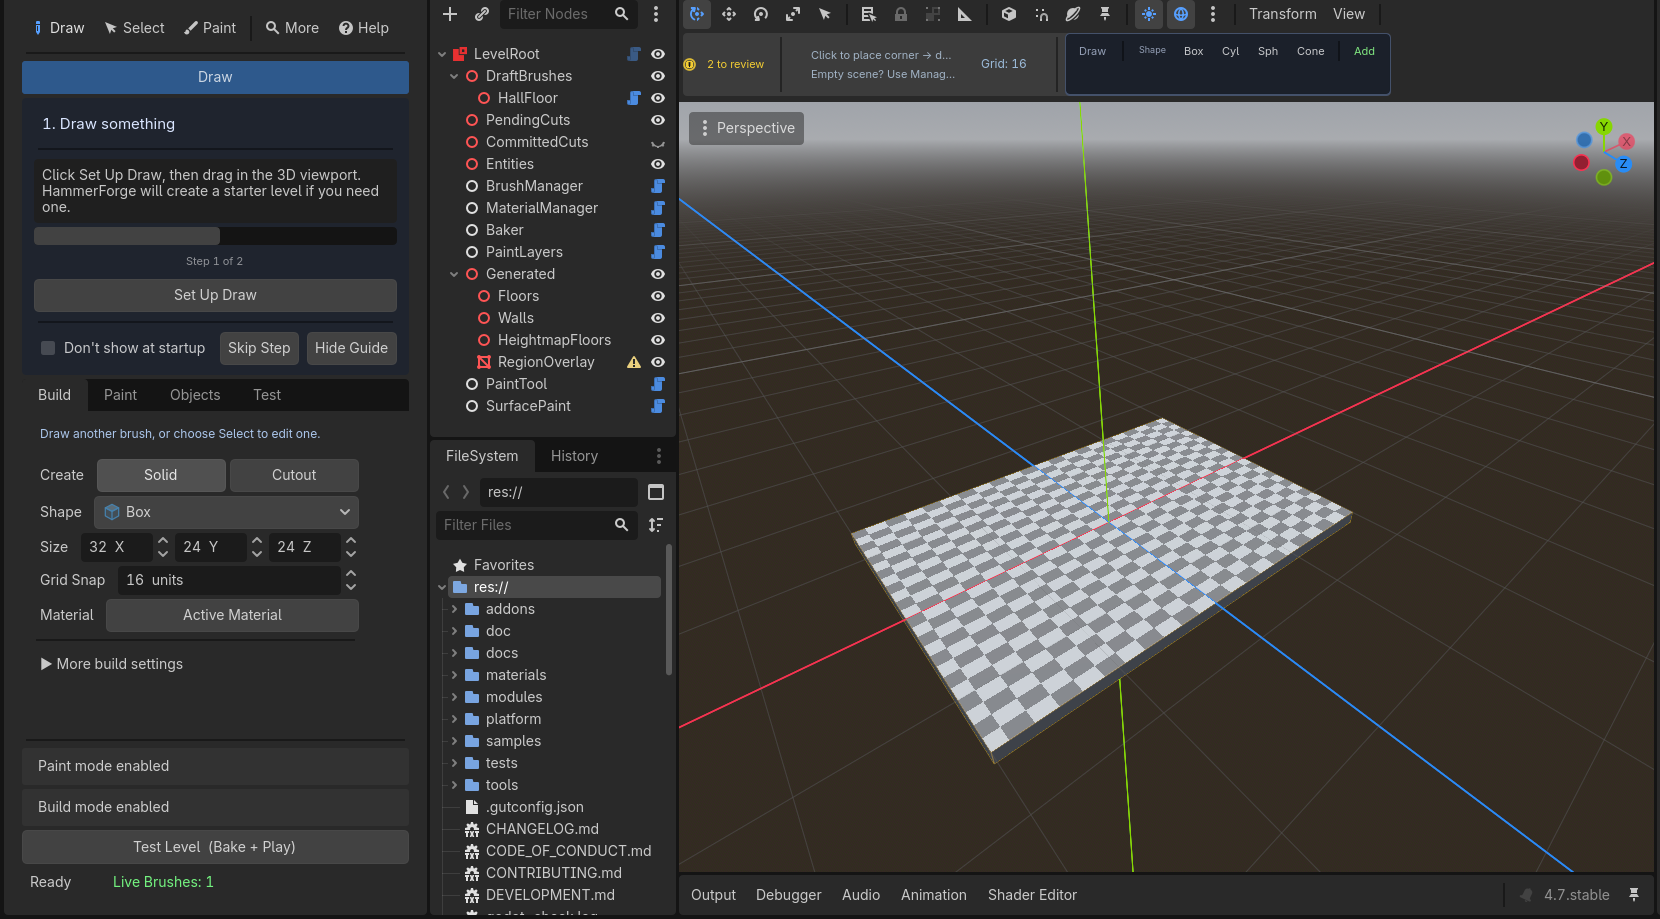
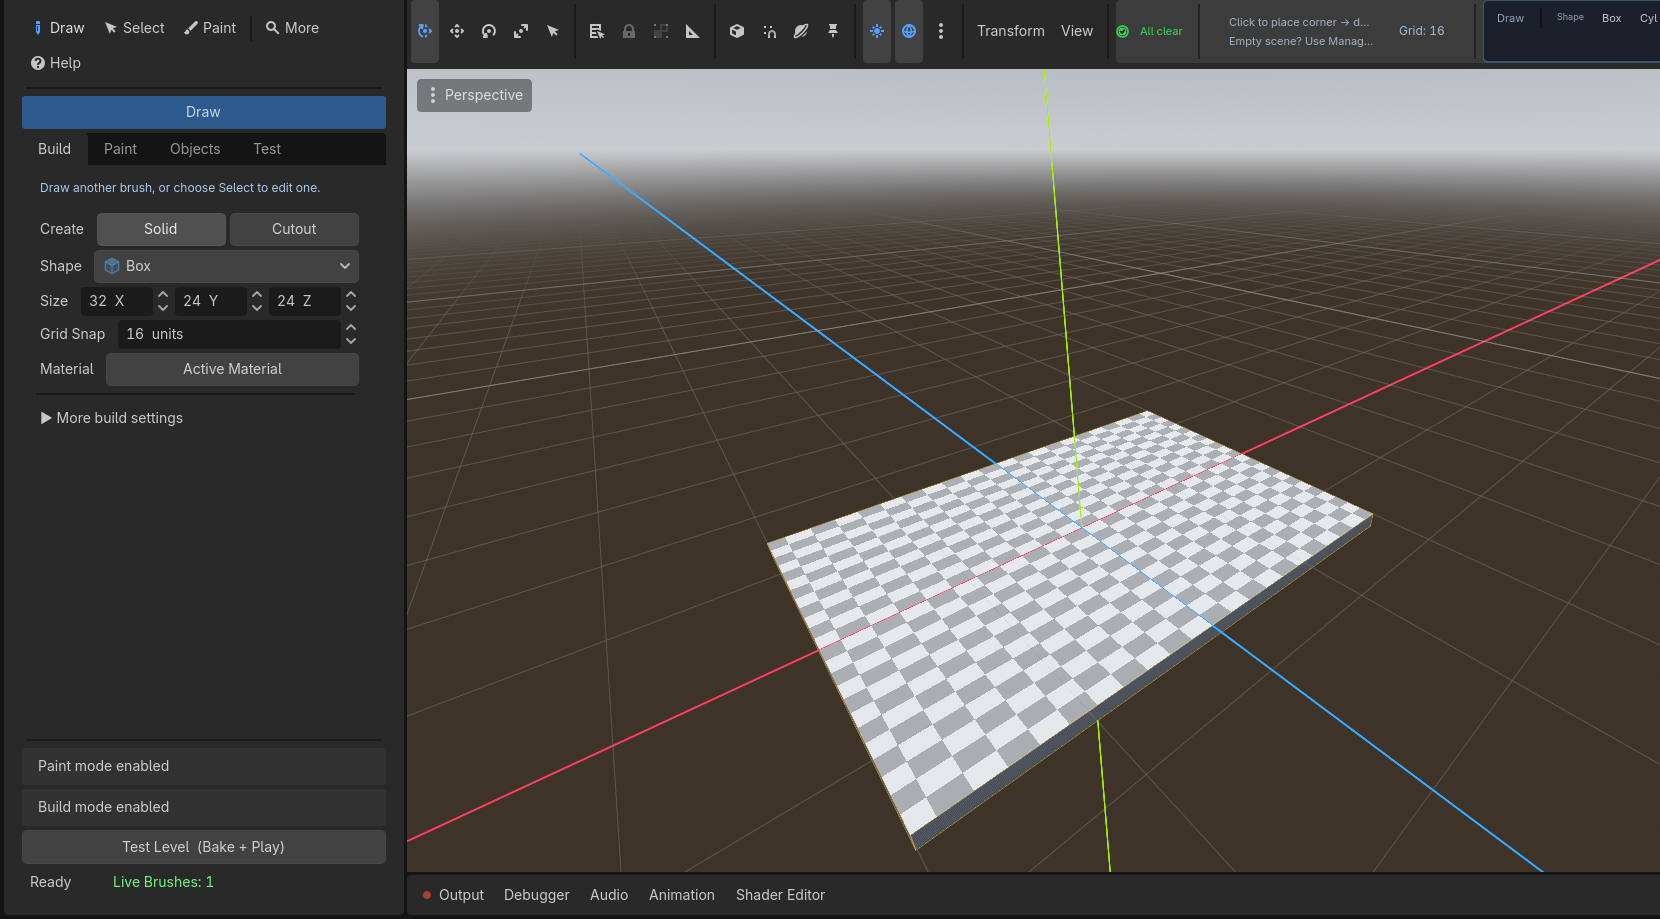
Recompose the editor screenshots as product shots
The captures were framed as whatever the editor happened to look like. That
meant the onboarding guide card filled the top ~40% of the HammerForge dock,
Godot's Inspector showed a column of truncated bake property labels, the
FileSystem dock listed repository files, and the viewport -- the only thing a
reader actually wants to see -- got under half the frame.

- Suppresses the onboarding guide card so the dock shows the tool.
- Hides Godot's own Scene, FileSystem and Inspector docks, roughly doubling the
  viewport. Done live, because Godot clamps dock splitter offsets written into
  editor_layout.cfg.
- Clears the selection after placing the camera so the transform gizmo is not
  parked in the middle of the level.
- Verifies the intended scene is actually active. open_scene_from_path alone is
  not enough: the project main scene can reclaim the active tab, which had the
  hero shot showing an empty plane from level_root instead of the showcase.
- Frames the camera for the wider viewport.

Also adds a synthetic-input probe, gated behind HF_DOCSHOT=probe. It drives
HammerForge through its real editor input path (_forward_3d_gui_input) and
confirms a synthesised drag creates a brush, which is the groundwork for a
recorded demo that needs no OS-level mouse control.

diff --git a/docs/demos/README.md b/docs/demos/README.md
@@ -45,6 +45,25 @@ HF_DOCSHOT=1 godot --editor --path .
 The plugin is inert unless `HF_DOCSHOT=1`, so leaving it enabled costs nothing
 during normal editing.
 
+### Composing the shot
+
+Screenshots are product shots, not screenshots of a dev checkout. Before
+capturing, the plugin composes the editor:
+
+- **The onboarding guide card is suppressed.** It otherwise fills the top ~40%
+  of the dock with "Step 1 of 2" tutorial chrome. Turn it off first:
+  `godot --headless -s res://tools/prepare_editor_smoke.gd --path . -- --show-welcome=false`
+- **Godot's own docks are hidden** (Scene, FileSystem, Inspector). They are not
+  HammerForge UI: the Inspector shows a column of truncated bake property
+  labels, and the FileSystem shows repository files. Hiding them roughly
+  doubles the viewport width. This is done live, because Godot clamps dock
+  splitter offsets written into `editor_layout.cfg`.
+- **The selection is cleared** after the camera is placed, so the transform
+  gizmo does not sit in the middle of the level.
+- **The scene is verified active.** `open_scene_from_path` alone is not enough;
+  the project main scene can reclaim the tab, so the capture retries until
+  `get_edited_scene_root().scene_file_path` matches.
+
 Before capturing for publication, strip the contributor MCP server from the
 environment so it does not appear in the editor's main-screen bar, and clear the
 open-scene list so the tab bar is not cluttered. Back both files up first:
